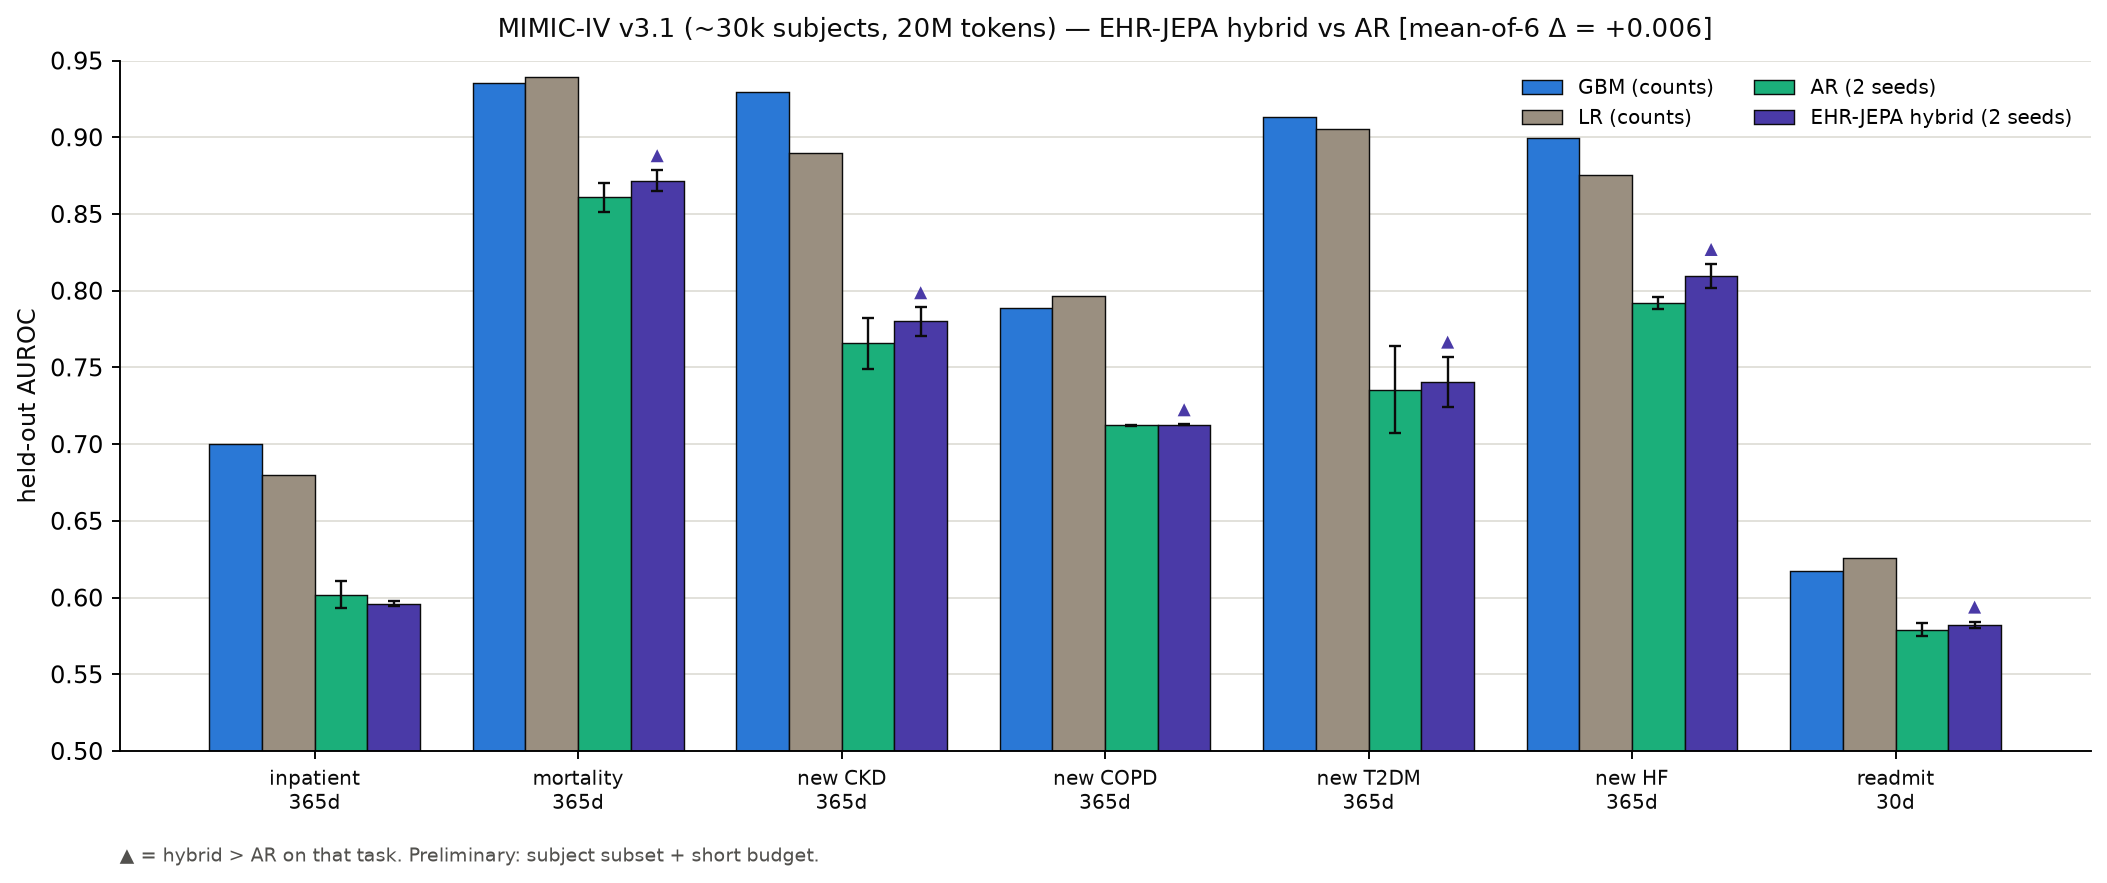
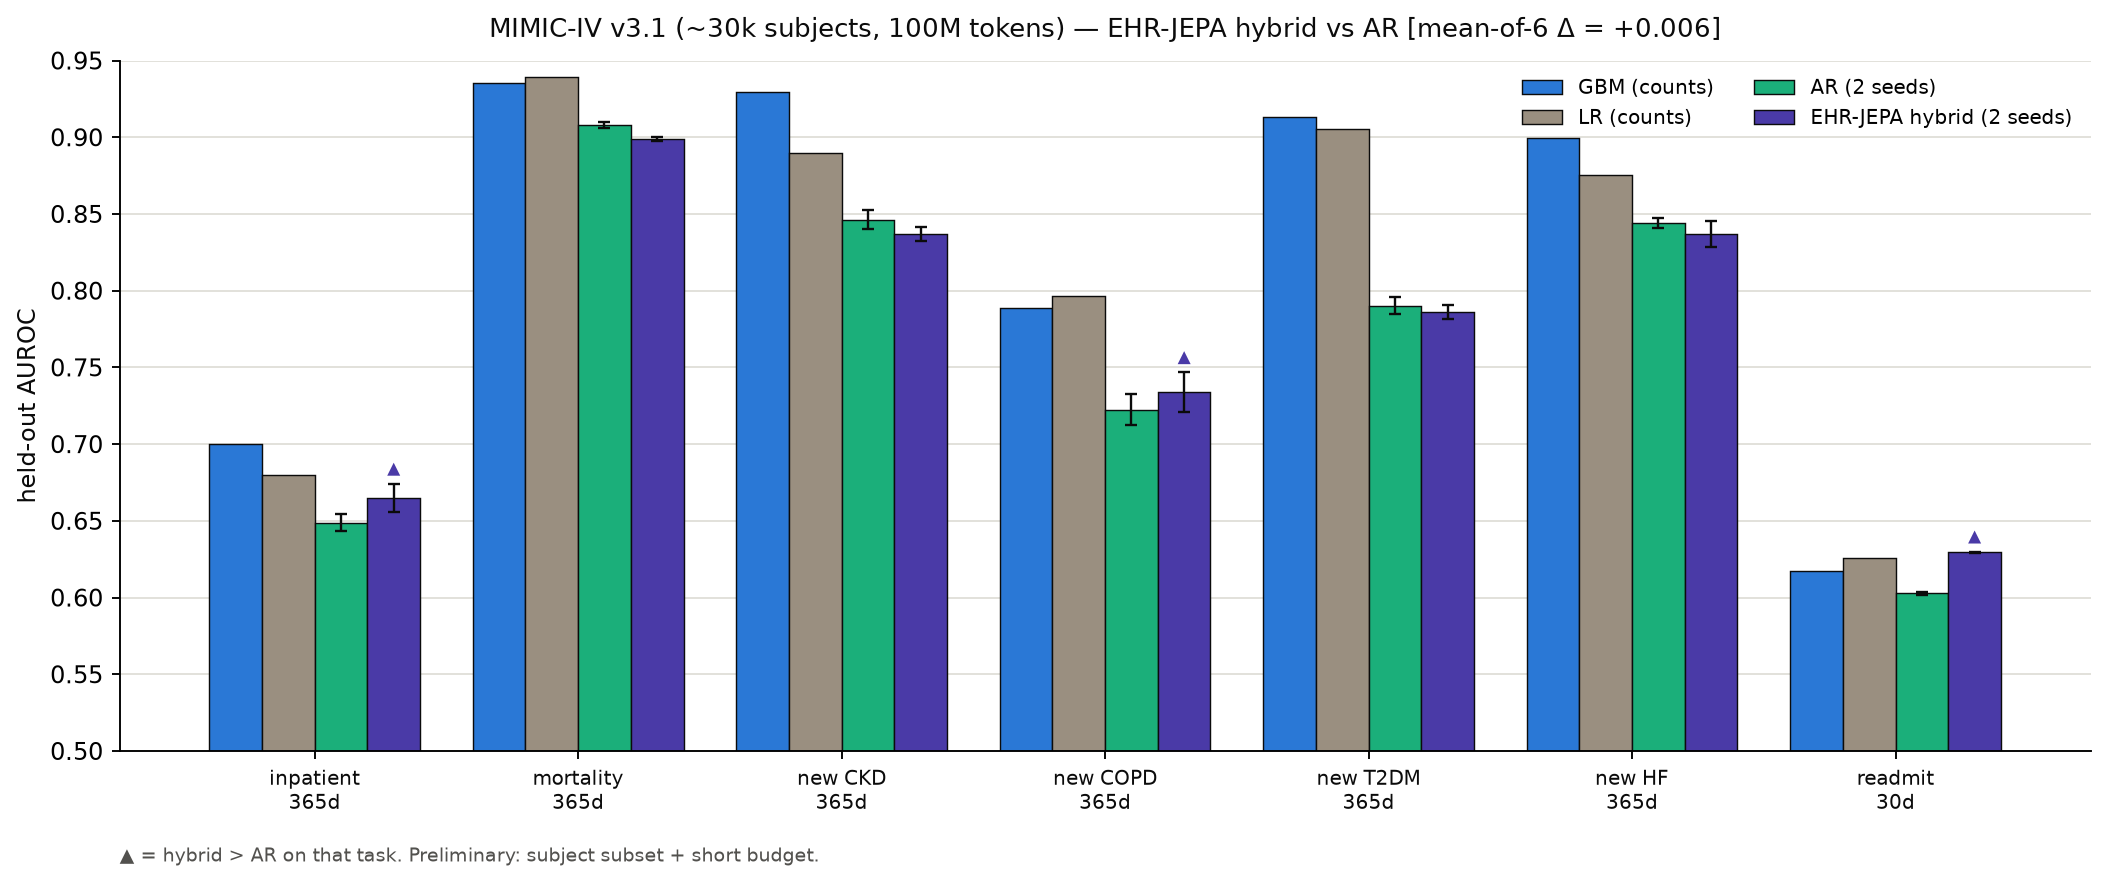
MIMIC 100M hybrid-vs-AR result: within-noise, honest framing; update figure + slide brief

diff --git a/scripts/plot_mimic_result.py b/scripts/plot_mimic_result.py
@@ -58,10 +58,14 @@ def stack(rows):
 
 
 def main() -> int:
+    global SUMMARY
     ap = argparse.ArgumentParser()
+    ap.add_argument("--summary", type=Path, default=SUMMARY)
+    ap.add_argument("--label", default="20M tokens")
     ap.add_argument("--out", type=Path, default=ROOT / "docs/figures/mimic_hybrid_vs_ar.png")
     ap.add_argument("--dpi", type=int, default=170)
     args = ap.parse_args()
+    SUMMARY = args.summary
 
     hy = parse_task_rows(lambda r: r.startswith("hybrid"))
     ar = parse_task_rows(lambda r: r.startswith("ar_s") or r == "ar")
@@ -93,7 +97,7 @@ def main() -> int:
     ax.set_ylim(max(0.45, lo), 0.95)
     nonmort = [i for i, t in enumerate(TASKS) if t != "mortality_365d"]
     delta = hy_m[nonmort].mean() - ar_m[nonmort].mean()
-    ax.set_title(f"MIMIC-IV v3.1 (~30k subjects, 20M tokens) — EHR-JEPA hybrid vs AR "
+    ax.set_title(f"MIMIC-IV v3.1 (~30k subjects, {args.label}) — EHR-JEPA hybrid vs AR "
                  f"[mean-of-6 Δ = {delta:+.3f}]", fontsize=11, color=INK, pad=10)
     ax.grid(axis="y", color=GRID, linewidth=0.8); ax.set_axisbelow(True)
     for s in ("top", "right"):

diff --git a/docs/SLIDE_DECK_BRIEF.md b/docs/SLIDE_DECK_BRIEF.md
@@ -98,14 +98,18 @@ Suggested length: 12–14 slides. Tone: measured, evidence-first, no hype.
 - Numbers: **364,627 patients · 546,028 admissions · 94,458 ICU stays · 875 M events** (chartevents 433 M, labevents 158 M). Vocab: 112 K ICD-dx / 4,095 chart / 1,650 lab items. ~77× more events than DE-SynPUF **plus** a whole lab/vital modality.
 - Status: acquired via BigQuery, verified byte-identical, characterized, ETL + tokenizer pipeline validated end-to-end on MIMIC.
 
-## Slide 13 — Preliminary MIMIC-IV result
-- **Message:** On real hospital data, the same shape holds — the hybrid edges the AR baseline on the chronic-diagnosis tasks — but at a short budget both trail strong count baselines, and the margin is within seed noise.
-- Figure: `figures/mimic_hybrid_vs_ar.png`
-- Numbers (~30k-subject subset, **20M tokens, 2 seeds**, full held-out; end-to-end pipeline validated on MIMIC-IV v3.1):
-  - **hybrid ahead of AR on 5 of 6 non-mortality tasks** — mean-of-6 **0.7035 vs 0.6978 (Δ +0.006)**; biggest gains **HF +0.017, CKD +0.014** (same shape as the DE-SynPUF finding). Per task (AR→hybrid): inpatient .602→.596 · CKD .766→.780 · COPD .712→.713 · T2DM .736→.741 · HF .792→.810 · readmit .579→.582; mortality .861→.872.
-  - Both trail the count baselines (GBM/LR reach **.88–.94** on the diagnosis tasks) — expected on MIMIC at this short budget (the diagnosis code sits directly in the count features; MEDS-Tab baselines are a famously high bar).
-- **Say this honestly:** *preliminary* — a subject subset + a short in-session budget, not the full stage-B run; the +0.006 margin is within seed noise. A larger-budget run is in progress; if it finishes before the talk, swap in `figures/mimic_hybrid_vs_ar.png` (this file is regenerated) and its numbers.
-- Speaker notes: the headline here is that **the whole pipeline now runs on real MIMIC-IV** (ETL→cache→train→eval) and the hybrid's direction of advantage carries over; the clean magnitude needs the full run.
+## Slide 13 — Preliminary MIMIC-IV result (honest — do not overstate)
+- **Message:** We validated the full pipeline on *real* hospital data; at preliminary budgets the hybrid and AR are **within seed noise of each other** — the clean DE-SynPUF advantage does **not** yet reproduce on MIMIC at this scale.
+- Figure: `figures/mimic_hybrid_vs_ar.png` (shows the 100M-token run)
+- What's real and positive (say these):
+  - **The whole pipeline now runs on real MIMIC-IV v3.1** — ETL → cache → train → eval, end to end (~30k-subject subset, 2 seeds).
+  - Trained encoders **beat their random-init control on every task**, and improve markedly with more training (20M→100M: CKD .78→.85, HF .81→.84, mortality .87→.91).
+  - On **readmission the encoders beat the count baselines** (hybrid .630 vs GBM .617 / LR .626) — a task where learned representations add over counts.
+- What's honest about the comparison (say these too):
+  - **Two budgets, 2 seeds each, both give mean-of-6 Δ ≈ +0.006** (20M: 0.7035 vs 0.6978; 100M: 0.7481 vs 0.7425) — a consistently small edge, but **per-task wins flip between budgets** (CKD/HF favored hybrid at 20M, AR at 100M), i.e. within noise. Not a clean win.
+  - Both still trail count baselines on the pure-diagnosis tasks (GBM/LR .88–.94), where the diagnosis code sits directly in the features — a famously high bar on MIMIC.
+- **Framing for the talk:** *preliminary, subject subset + pilot-scale budget.* Note that on DE-SynPUF the hybrid advantage was also small at pilot scale (48M, +0.008) and only became statistically clean at **1B tokens** — so a full-scale MIMIC (stage-B) run is the honest next step to test whether it reproduces. Do not claim a MIMIC win.
+- Speaker notes: this is the *right* kind of slide — it shows the method extends to real data and states plainly where the evidence currently stops.
 
 ## Slide 14 — Takeaways, limitations, next steps
 - **Takeaways:** (1) masked-span latent JEPA alone doesn't clear its control; (2) a next-latent + code hybrid is the strongest objective at every budget; (3) AR plateaus, the hybrid scales; (4) it wins few-shot at every k; (5) on continuous ICU state the strong JEPA claim is not supported — the honest boundary.

diff --git a/docs/experiments/mimic-hybrid-ar-100m/summary.md b/docs/experiments/mimic-hybrid-ar-100m/summary.md
@@ -1,0 +1,22 @@
+# Ablation grid -- mimic-hybrid-ar-100m
+
+Base config `configs/pretrain_default.yaml`, source `mimic-iv`, held-out AUROC on the full held-out split, 200 bootstrap resamples, probe `auto@final` (the `probe` column gives each row's resolved pooling).
+
+Rows are appended by `scripts/ablate.py` as each run finishes. Last update: 2026-09-30T11:19:44+00:00.
+
+| run | mode | objective | probe | ft_bs | eval_subj | target | lambda | p_future | steps | tokens | loss | pred | ce | top1 | top10 | rank | cos_gap | tok/s | wall_s | inpatient_365d | mortality_365d | new_dx_365d/ckd | new_dx_365d/copd | new_dx_365d/diabetes | new_dx_365d/heart_failure | readmission_30d |
+|---|---|---|---|---|---|---|---|---|---|---|---|---|---|---|---|---|---|---|---|---|---|---|---|---|---|---|
+| `ar_s0` | probe | ar | last@final | -- | -- | -- | -- | -- | 3,052 | 100,007,936 | 1.21 | -- | 1.21 | 0.74 | 0.9049 | 207.6 | 0 | 60,123 | 925.8 | 0.6543 | 0.9097 | 0.8402 | 0.7328 | 0.7845 | 0.8411 | 0.6018 |
+| `hybrid_s0` | probe | nextlatent | last@final | -- | -- | ema | 0 | -- | 3,052 | 100,007,936 | 0.344 | 0.2181 | 1.259 | 0.7388 | 0.8975 | 210.9 | 0.0691 | 47,130 | 1,180 | 0.6557 | 0.9003 | 0.8417 | 0.7209 | 0.7816 | 0.8286 | 0.63 |
+| `ar_s1` | probe | ar | last@final | -- | -- | -- | -- | -- | 3,052 | 100,007,936 | 1.236 | -- | 1.236 | 0.7451 | 0.9035 | 210.3 | 0 | 60,318 | 922.3 | 0.6435 | 0.9059 | 0.8524 | 0.7122 | 0.7959 | 0.8476 | 0.6037 |
+| `hybrid_s1` | probe | nextlatent | last@final | -- | -- | ema | 0 | -- | 3,052 | 100,007,936 | 0.3519 | 0.2229 | 1.29 | 0.7349 | 0.8973 | 213.1 | 0.06323 | 47,152 | 1,179 | 0.6742 | 0.8976 | 0.8324 | 0.7469 | 0.7905 | 0.8453 | 0.6291 |
+
+## Reference models
+
+| model | inpatient_365d | mortality_365d | new_dx_365d/ckd | new_dx_365d/copd | new_dx_365d/diabetes | new_dx_365d/heart_failure | readmission_30d |
+|---|---|---|---|---|---|---|---|
+| `gbm` | 0.7004 | 0.9354 | 0.9296 | 0.7889 | 0.9129 | 0.8995 | 0.6171 |
+| `lr` | 0.6802 | 0.9393 | 0.8895 | 0.7963 | 0.9057 | 0.8752 | 0.6255 |
+| `random_init@ar_s0` | 0.5107 | 0.8473 | 0.7555 | 0.6791 | 0.6909 | 0.8051 | 0.5568 |
+
+`lr` and `gbm` are count-feature baselines and do not depend on the encoder, so their scores are reused from an earlier run's `predictions.parquet`. `random_init@<run>` is that run's own architecture with untrained weights, probed identically -- the control for a causal encoder is an untrained causal encoder.
